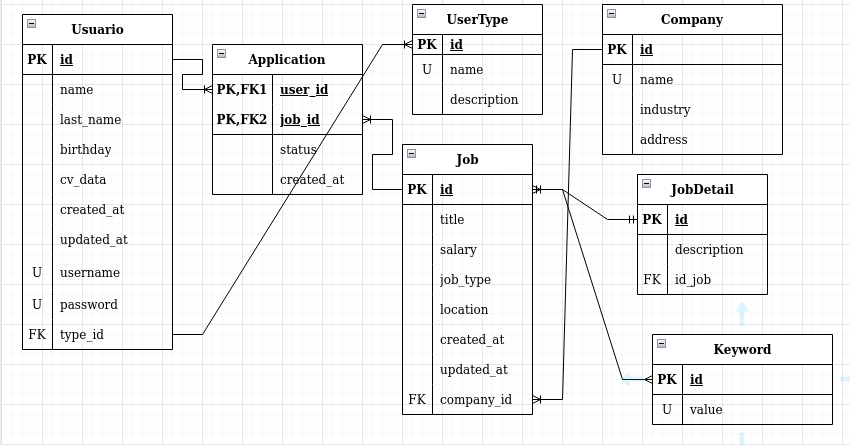
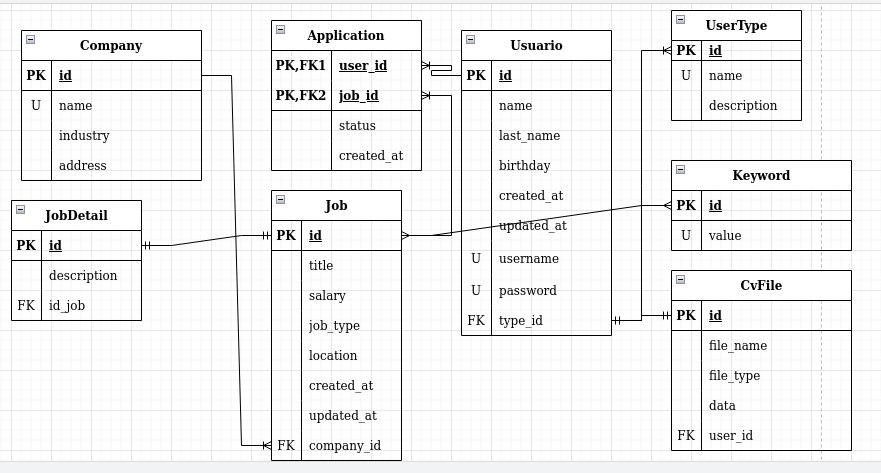
ER extended

diff --git a/src/main/java/com/mauricio/onlinejob/services/UserServiceImpl.java b/src/main/java/com/mauricio/onlinejob/services/UserServiceImpl.java
@@ -1,0 +1,105 @@
+package com.mauricio.onlinejob.services;
+
+import com.mauricio.onlinejob.dto.JobDto;
+import com.mauricio.onlinejob.dto.UserDto;
+import com.mauricio.onlinejob.entities.User;
+import com.mauricio.onlinejob.entities.UserType;
+import com.mauricio.onlinejob.exceptions.BadRequestException;
+import com.mauricio.onlinejob.exceptions.NotFoundException;
+import com.mauricio.onlinejob.repositories.UserRepository;
+import org.springframework.beans.factory.annotation.Autowired;
+import org.springframework.stereotype.Service;
+import org.springframework.web.multipart.MultipartFile;
+
+import java.io.IOException;
+import java.time.LocalDate;
+import java.time.LocalDateTime;
+import java.time.format.DateTimeFormatter;
+import java.util.List;
+import java.util.Optional;
+import java.util.function.Function;
+import java.util.stream.Collectors;
+
+@Service
+public class UserServiceImpl implements UserService{
+
+    @Autowired
+    private UserRepository userRepository;
+
+    private final DateTimeFormatter dateTimeFormatter =
+            DateTimeFormatter.ofPattern("dd-MM-yyyy HH:mm:ss");
+    private final DateTimeFormatter dateFormatter =
+            DateTimeFormatter.ofPattern("yyyy-MM-dd");
+
+    @Override
+    public UserDto getUserByUsername(String username){
+        Optional<User> userFound = userRepository.findByUsername(username);
+        if (userFound.isEmpty()){
+            throw new NotFoundException(String.format("Usuario %s no encontrado!",
+                    username));
+        }
+        return entityToDto.apply(userFound.get());
+    }
+
+    @Override public List<UserDto> getAllUsers() {
+        return userRepository.findAll().stream().map(entityToDto).collect(Collectors.toList());
+    }
+
+    @Override public UserDto saveUser(UserDto userDto) {
+        Optional<User> userFound = userRepository.findByUsername(userDto.username());
+        if (userFound.isPresent()){
+            throw new BadRequestException(String.format("El nombre de usuario %s ya " +
+                    "existe", userFound.get().getUsername()));
+        }
+        String passwordEncrypted = "·$1dp32'$da009jddj0Ñe30";
+        UserType userType = UserType.builder().id(userDto.userTypeId()).build();
+        User user = User.builder()
+                .name(userDto.name())
+                .lastName(userDto.lastName())
+                .birthday( LocalDate.parse(userDto.birthday(), dateFormatter))
+                .username(userDto.username())
+                .password(passwordEncrypted)
+                .userType(userType).build();
+        User userSaved = userRepository.save(user);
+        return entityToDto.apply(userSaved);
+    }
+
+    @Override public long getAmountOfUsers() {
+        return userRepository.count();
+    }
+
+    @Override public UserDto updateUser(Long id, UserDto user) {
+        User userUpdated = userRepository.findById(id).map(item -> {
+            item.setName(user.name());
+            item.setLastName(user.lastName());
+            item.setBirthday(LocalDate.parse(user.birthday(), dateFormatter));
+            item.setUpdatedAt(LocalDateTime.now());
+            return userRepository.save(item);
+        }).orElseThrow(() -> new NotFoundException(String.format("El usuario %s no fue " +
+                "encontrado", user.username())));
+
+        return entityToDto.apply(userUpdated);
+    }
+
+    @Override public void deleteUser(Long id) {
+        User userFound =
+                userRepository.findById(id).orElseThrow(() -> new NotFoundException(String.format("ID %d no encontrado.", id)));
+        userRepository.delete(userFound);
+    }
+
+    private final Function<User, UserDto> entityToDto = user ->
+            new UserDto(
+                    user.getId(),
+                    user.getName(),
+                    user.getLastName(),
+                    user.getBirthday().format(dateFormatter),
+                    user.getUsername(),
+                    user.getCreatedAt().format(dateTimeFormatter),
+                    user.getUpdatedAt().format(dateTimeFormatter),
+                    user.getUserType().getId()
+            );
+
+
+}
+
+

diff --git a/src/main/java/com/mauricio/onlinejob/controllers/UserController.java b/src/main/java/com/mauricio/onlinejob/controllers/UserController.java
@@ -1,0 +1,39 @@
+package com.mauricio.onlinejob.controllers;
+
+import com.mauricio.onlinejob.dto.UserDto;
+import com.mauricio.onlinejob.services.UserService;
+import jakarta.validation.Valid;
+import org.springframework.beans.factory.annotation.Autowired;
+import org.springframework.http.ResponseEntity;
+import org.springframework.web.bind.annotation.*;
+
+import java.util.List;
+
+@RestController
+@RequestMapping(value = "/api/user")
+public class UserController {
+
+    @Autowired
+    private UserService userService;
+
+
+
+    @GetMapping
+    public List<UserDto> getAllUsers(){
+        return userService.getAllUsers();
+    }
+
+    @PostMapping
+    public ResponseEntity<UserDto> saveUser(@Valid @RequestBody UserDto userDto){
+        UserDto user = userService.saveUser(userDto);
+        return ResponseEntity.status(201).body(user);
+    }
+
+    @PutMapping(value = "/{fileId}")
+    public ResponseEntity<UserDto> updateUser(@PathVariable(value = "fileId") Long fileId, UserDto userDto){
+        UserDto userResponse = userService.updateUser(fileId, userDto);
+        return ResponseEntity.status(202).body(userResponse);
+    }
+
+
+}

diff --git a/src/main/java/com/mauricio/onlinejob/entities/CvFile.java b/src/main/java/com/mauricio/onlinejob/entities/CvFile.java
@@ -1,0 +1,35 @@
+package com.mauricio.onlinejob.entities;
+
+import jakarta.persistence.*;
+import jakarta.validation.constraints.NotNull;
+import lombok.Getter;
+import lombok.NoArgsConstructor;
+import lombok.Setter;
+
+@Setter
+@Getter
+@Entity
+@NoArgsConstructor
+public class CvFile { // this is for mediumblob datatype to store the pdf files
+
+    @Id
+    @GeneratedValue(strategy = GenerationType.IDENTITY)
+    private Long id;
+
+    private String fileName;
+    private String fileType;
+
+    @Lob
+    @Column(length = 10000000)
+    private byte[] data;
+
+    @OneToOne
+    @JoinColumn(name = "user_id", nullable = false)
+    private User user;
+
+    public CvFile(String fileName, String fileType, byte[] data) {
+        this.fileName = fileName;
+        this.fileType = fileType;
+        this.data = data;
+    }
+}

diff --git a/src/main/java/com/mauricio/onlinejob/services/UserService.java b/src/main/java/com/mauricio/onlinejob/services/UserService.java
@@ -1,0 +1,20 @@
+package com.mauricio.onlinejob.services;
+
+import com.mauricio.onlinejob.dto.UserDto;
+import com.mauricio.onlinejob.entities.User;
+import org.springframework.web.multipart.MultipartFile;
+
+import java.util.List;
+
+public interface UserService {
+
+    UserDto getUserByUsername(String username);
+
+    List<UserDto> getAllUsers();
+    UserDto saveUser(UserDto user);
+    long getAmountOfUsers();
+    UserDto updateUser(Long id, UserDto user);
+
+    void deleteUser(Long id);
+
+}

diff --git a/src/main/java/com/mauricio/onlinejob/repositories/UserRepository.java b/src/main/java/com/mauricio/onlinejob/repositories/UserRepository.java
@@ -1,0 +1,14 @@
+package com.mauricio.onlinejob.repositories;
+
+import com.mauricio.onlinejob.entities.User;
+import org.springframework.data.jpa.repository.JpaRepository;
+import org.springframework.stereotype.Repository;
+
+import java.util.Optional;
+
+@Repository
+public interface UserRepository extends JpaRepository<User, Long> {
+
+    Optional<User> findByUsername(String username);
+
+}

diff --git a/src/main/java/com/mauricio/onlinejob/entities/User.java b/src/main/java/com/mauricio/onlinejob/entities/User.java
@@ -46,11 +46,6 @@ public class User {
     @Column(nullable = false)
     private String password;
 
-    // this is for mediumblob datatype to store the pdf files
-    @Lob
-    @Column(name = "cv_data", length = 10000000)
-    private byte[] cvData;
-
     @Column(name = "created_at")
     private LocalDateTime createdAt = LocalDateTime.now();
     @Column(name = "updated_at")

diff --git a/src/main/java/com/mauricio/onlinejob/dto/UserDto.java b/src/main/java/com/mauricio/onlinejob/dto/UserDto.java
@@ -1,0 +1,12 @@
+package com.mauricio.onlinejob.dto;
+
+public record UserDto(
+    Long id,
+    String name,
+    String lastName,
+    String birthday,
+    String username,
+    String createdAt,
+    String updatedAt,
+    Long userTypeId
+) {}

diff --git a/src/main/java/com/mauricio/onlinejob/dto/UserDtoResponse.java b/src/main/java/com/mauricio/onlinejob/dto/UserDtoResponse.java
@@ -1,0 +1,4 @@
+package com.mauricio.onlinejob.dto;
+
+public record UserDtoResponse() {
+}

diff --git a/README.md b/README.md
@@ -1,3 +1,31 @@
+This is a fullstack application project for an online job system where our users can get registered
+as a job seeker or as a hiring person, and they will have different accesses and permissions, so it
+will use authentication and authorization methods to handle it.
+
+## Technologies
+* Java (Spring Boot)
+* Spring Security
+* Maven Profile
+* Maven plugins: Jib, Frontend Maven, Maven Resources
+* Angular
+* AWS (deployment)
+* Docker (containerization, and platform)
+* MySQL
+* N-Tier Architecture
+
+## Features
+
+* Data Validation
+* Customized error messages from the backend (status code)
+* DTO mappers
+* Responses with pagination (for some requests by using query parameters)
+* Authentication and Authorization using Spring Security
+* Data validation from the frontend
+* Database Storage for PDF files (CV)
 
 ### ER diagram
 ![Entity Relationship](./ER-Diagram.png)
+
+
+
+ 
